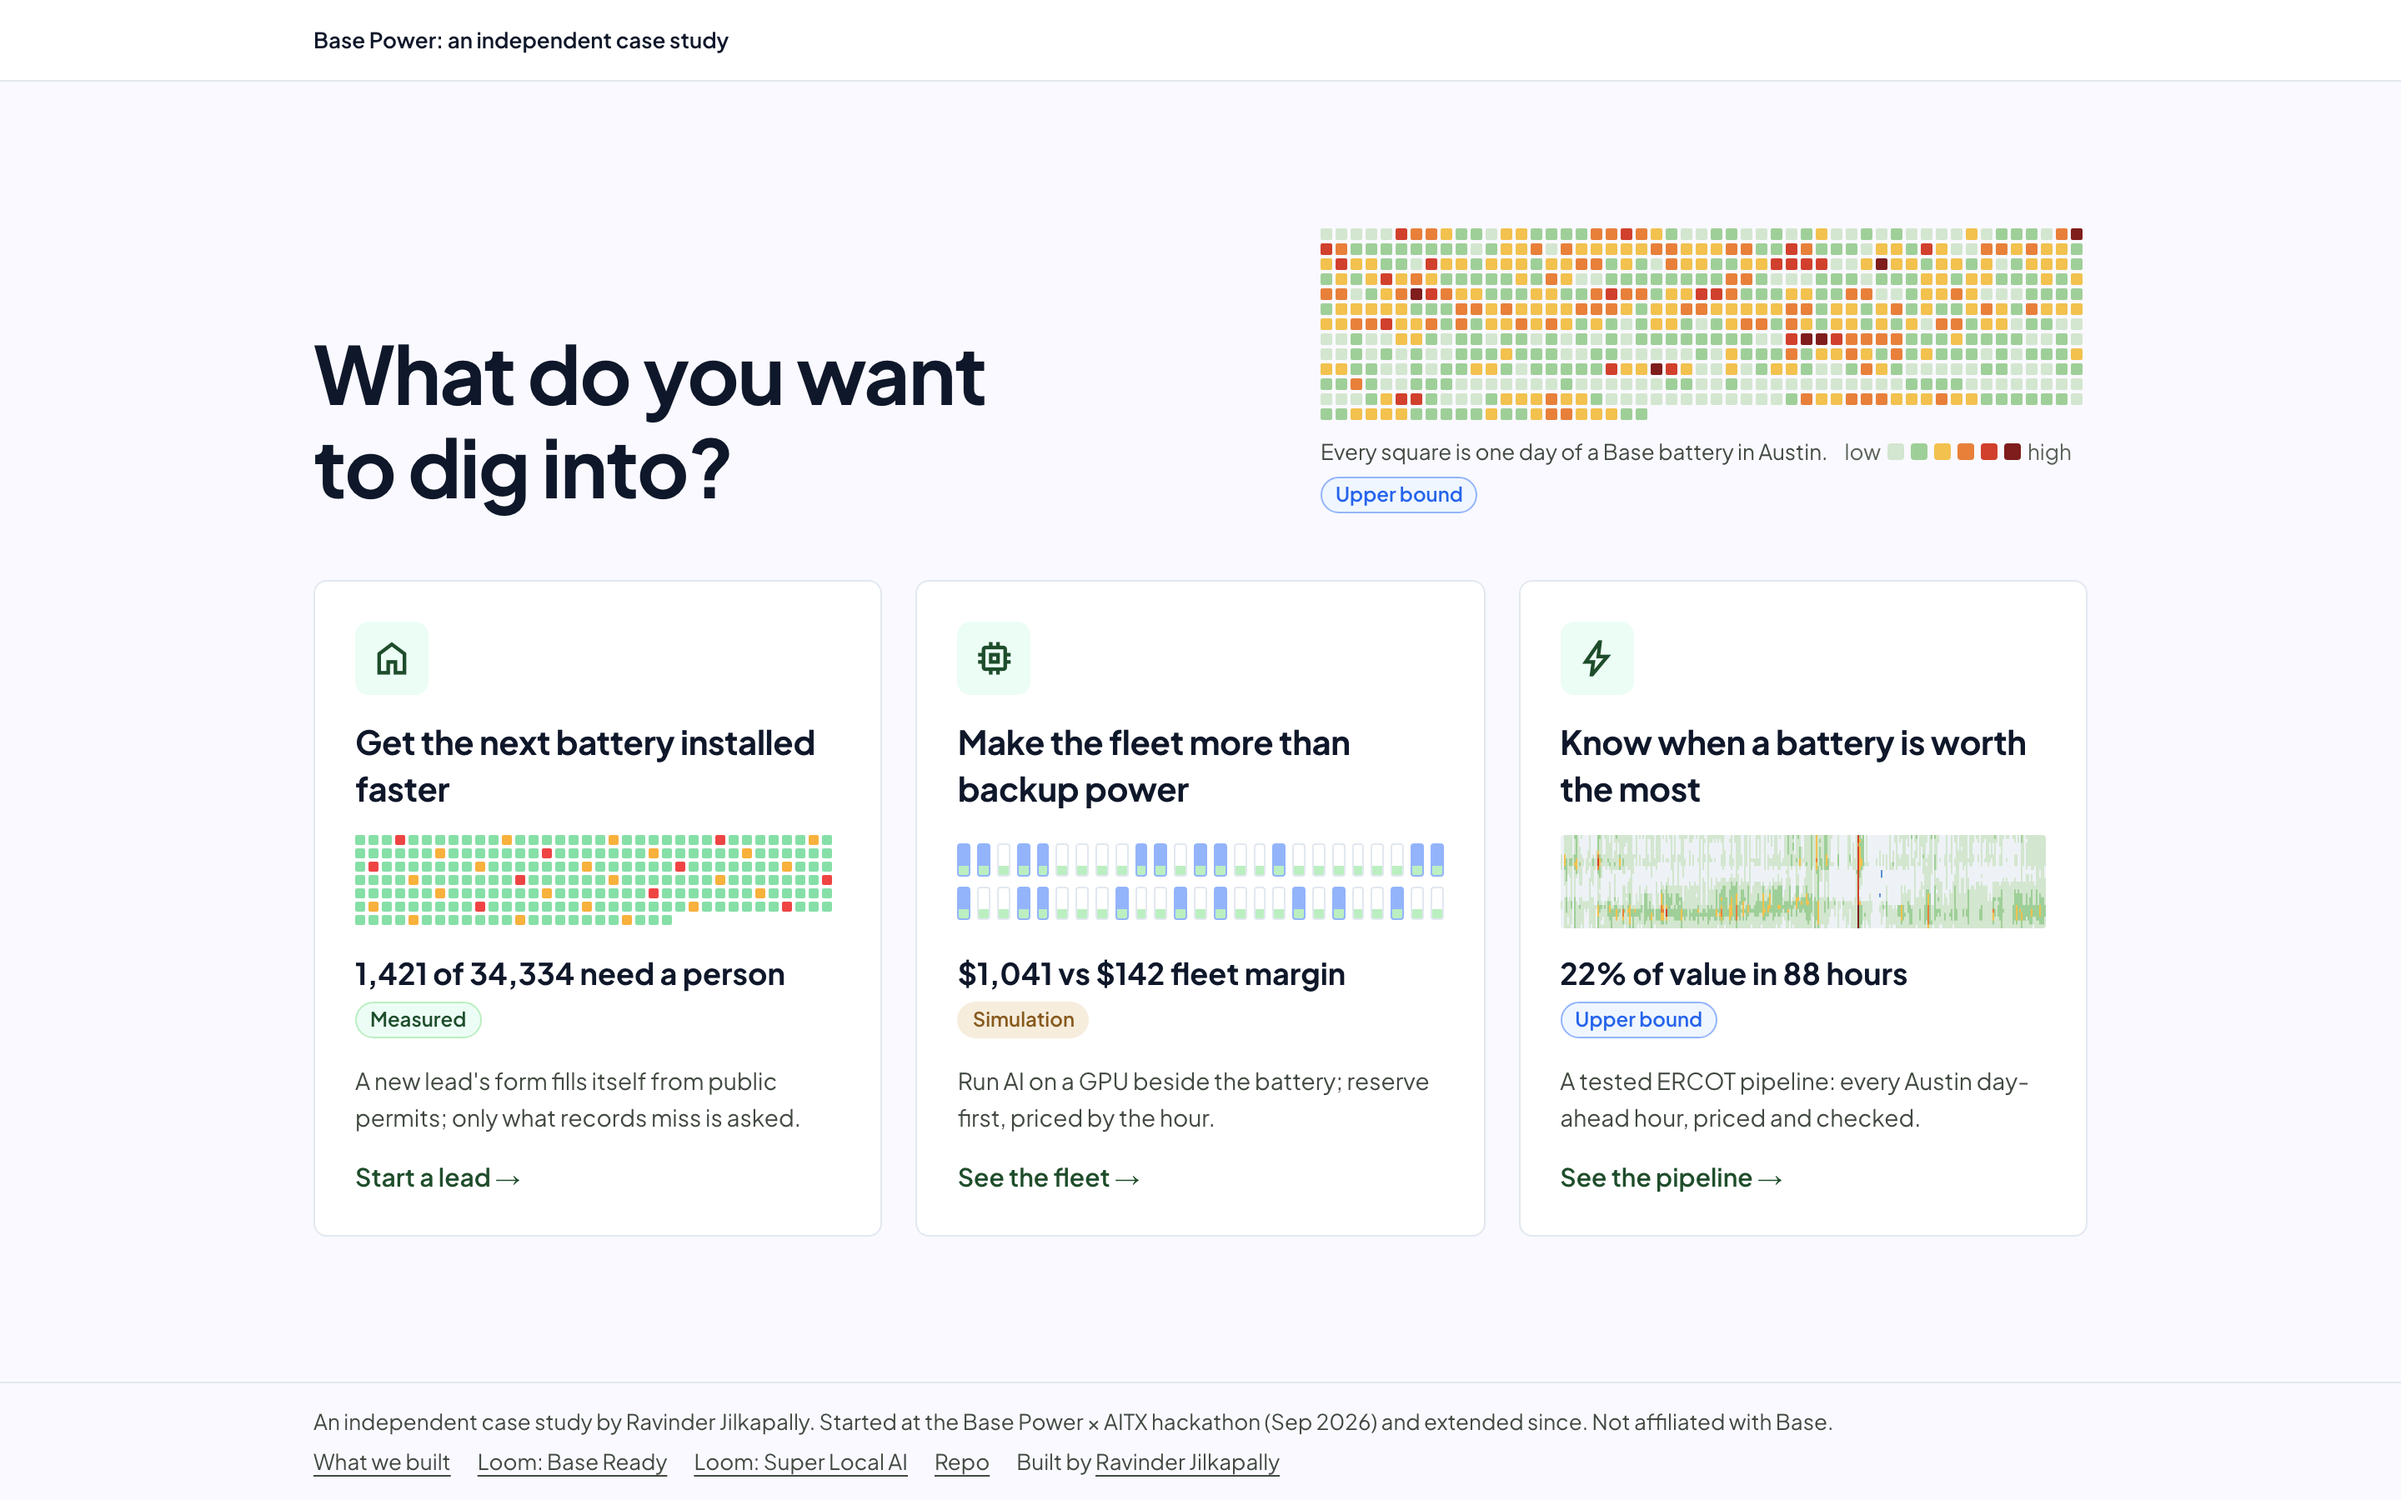
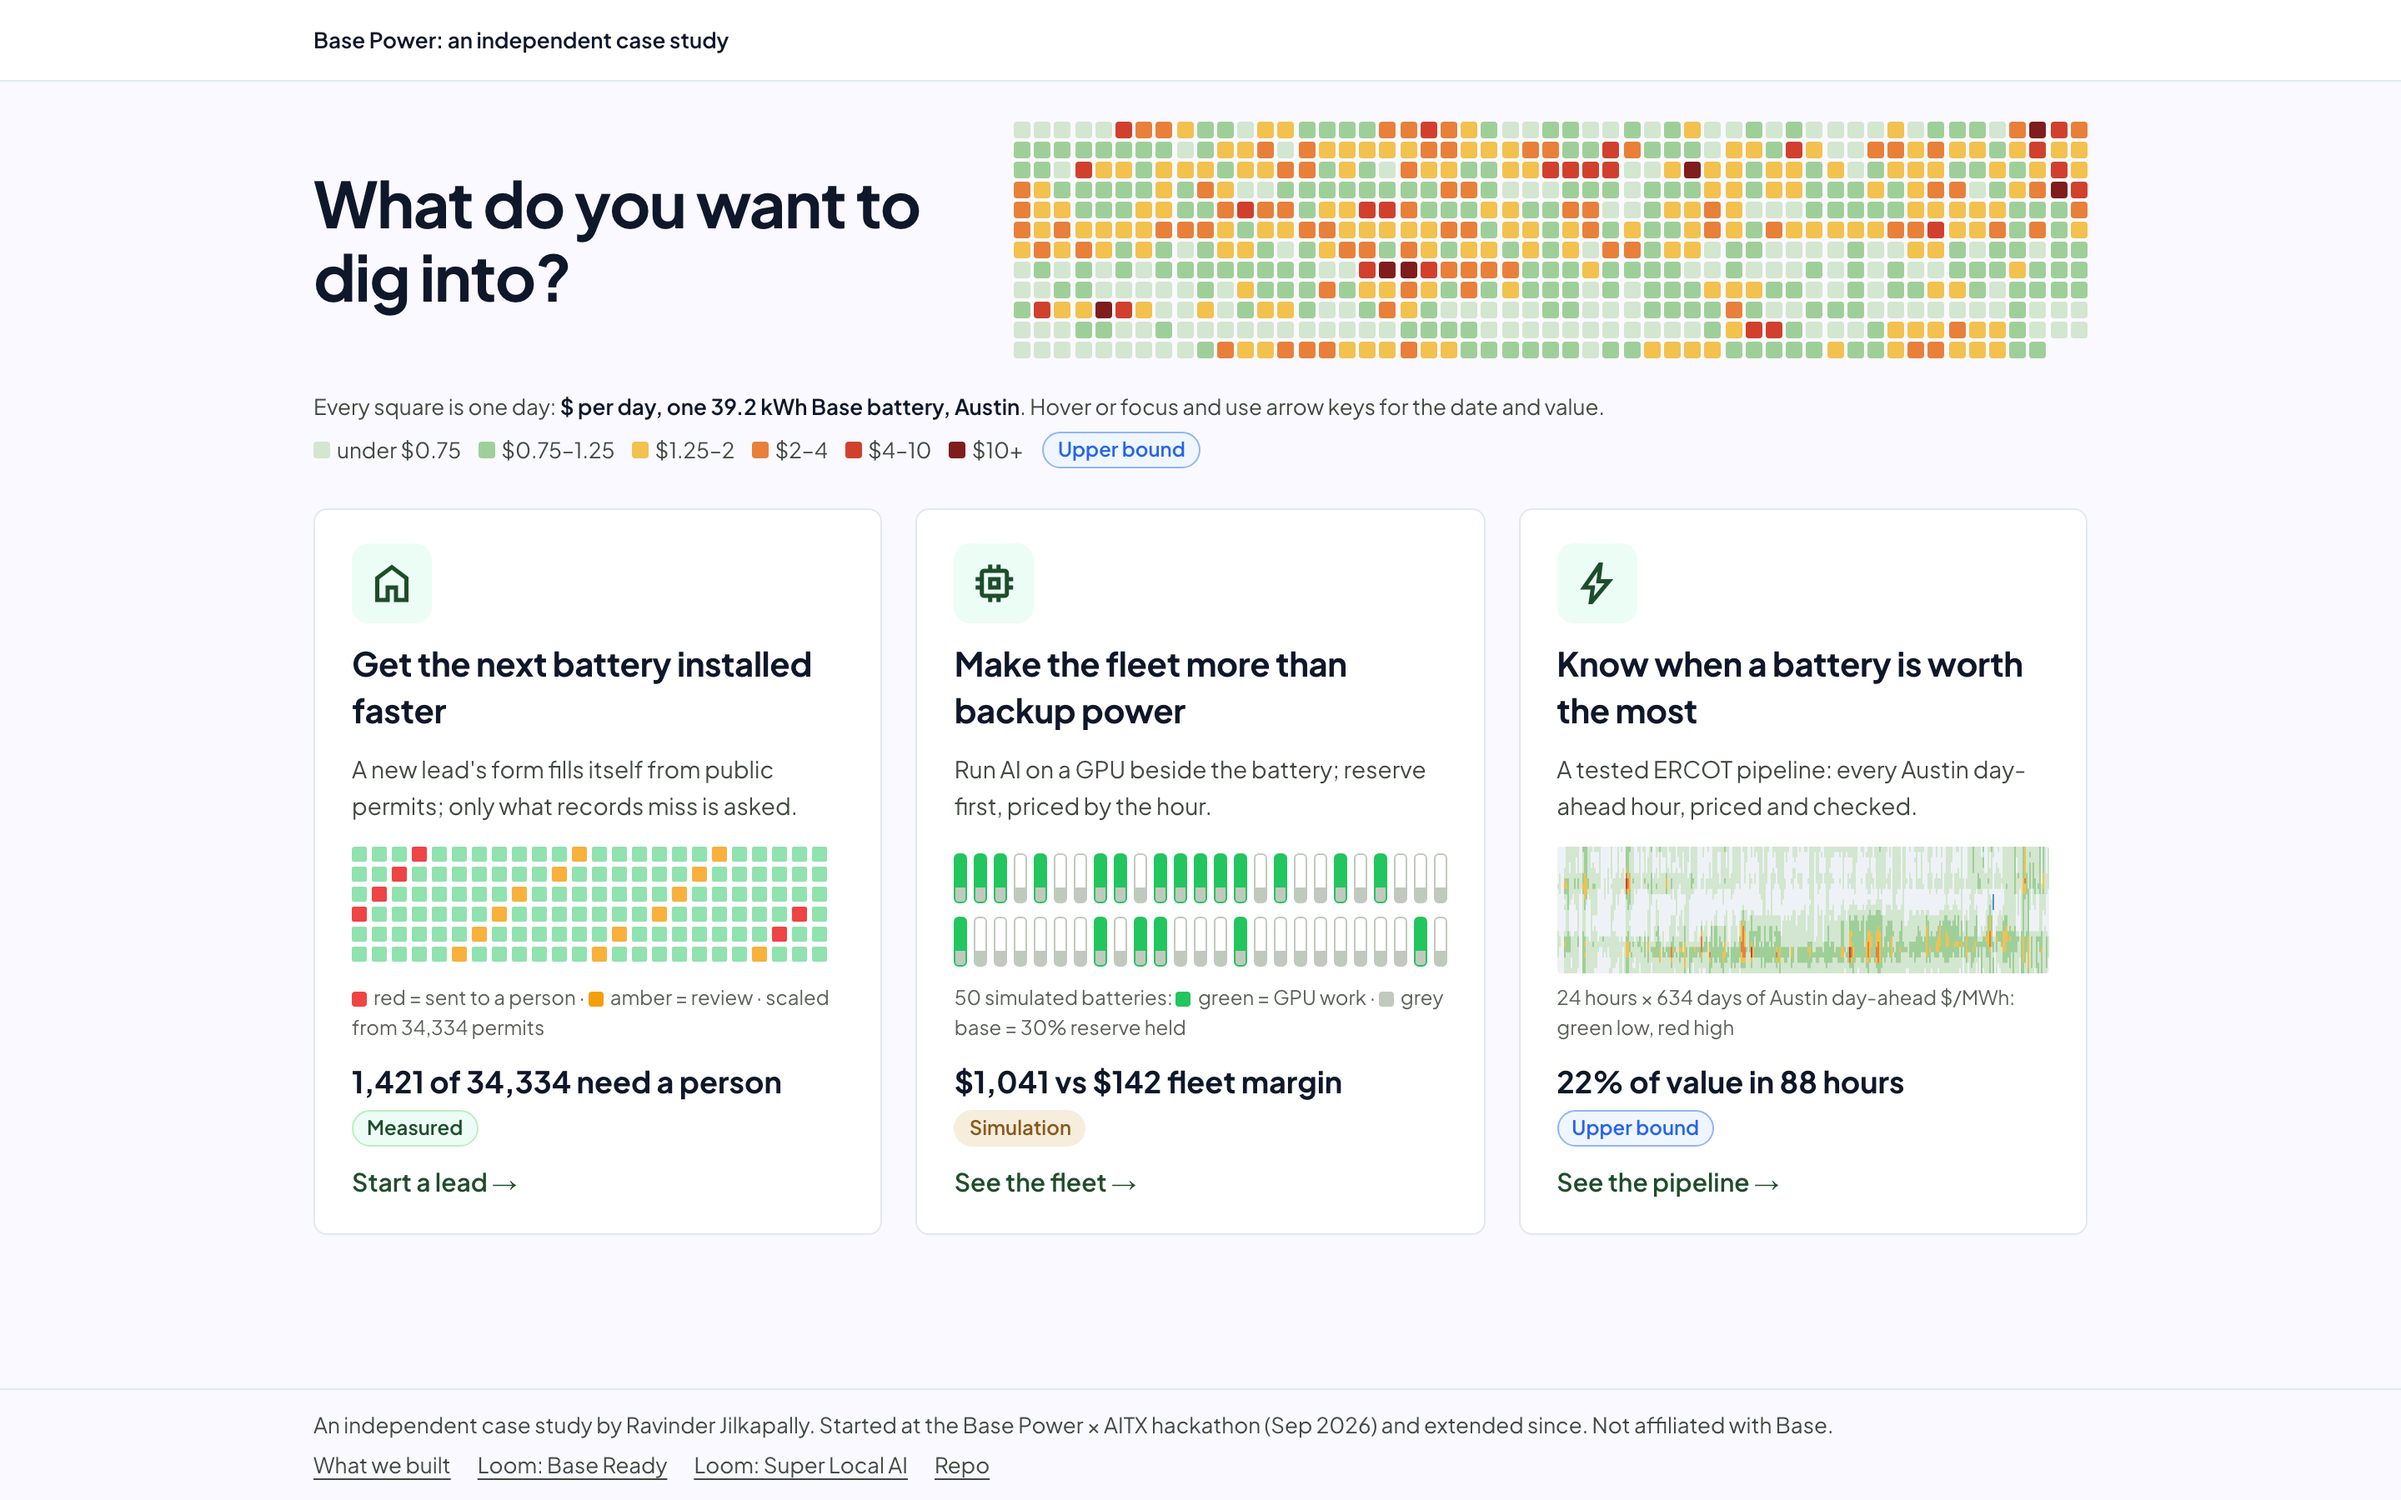
landing: no green panel; grid drawn at once (no fill-in animation) (#21)
Claude-Session: https://claude.ai/code/session_01MhZ4defSvUL2RRn7pbkeyv

diff --git a/web/start.js b/web/start.js
@@ -47,19 +47,7 @@
       e.preventDefault();
       show(Math.min(cells.length - 1, Math.max(0, (sel < 0 ? 0 : sel) + step)));
     });
-    if (reduce) cells.forEach((c, i) => c.style.background = fin[i]);
-    else {
-      const t0 = performance.now(), DUR = 2400, WAVE = 24;
-      const tick = now => {
-        const done = Math.round(Math.min(1, (now - t0) / DUR) * cells.length);
-        for (let i = 0; i < cells.length; i++) {
-          const want = i < done - WAVE ? fin[i] : i < done ? 'var(--bf-line-strong)' : '';
-          if (cells[i].style.background !== want) cells[i].style.background = want;
-        }
-        if (done < cells.length) requestAnimationFrame(tick); else cells.forEach((c, i) => c.style.background = fin[i]);
-      };
-      requestAnimationFrame(tick);
-    }
+    cells.forEach((c, i) => c.style.background = fin[i]);
     // ERCOT card: hour x day heatmap of Austin day-ahead $/MWh, drawn 1.8x wider than the card so hover can pan it.
     const G = D.heatmap.LZ_AEN, strip = $('viz-strip'), n = G.length, H = strip.clientHeight || 76;
     const vw = Math.max(200, strip.clientWidth), W = Math.round(vw * 1.8), dpr = devicePixelRatio || 1;

diff --git a/web/start.html b/web/start.html
@@ -22,7 +22,7 @@
   main { flex: 1; padding: 24px 0 28px; }
   /* Hero: H1 panel beside the 634-day band (no overlap), legend with units below. */
   .band { margin: 0; display: grid; grid-template-columns: 400px minmax(0, 1fr); gap: 20px; align-items: stretch; }
-  .hero-panel { background: var(--bf-brand); color: var(--bf-on-brand); border-radius: var(--bf-radius-lg); padding: 24px 28px; display: flex; align-items: center; }
+  .hero-panel { color: var(--bf-ink); display: flex; align-items: center; }
   h1 { font: 700 38px/44px var(--bf-font); letter-spacing: -0.02em; margin: 0; }
   .days { position: relative; min-width: 0; }
   .days-sq { display: grid; grid-template-columns: repeat(auto-fill, 10px); gap: 2px; justify-content: space-between; border-radius: 2px; }
@@ -79,7 +79,6 @@
     .wrap { padding: 0 16px; }
     main { padding: 16px 0 24px; }
     h1 { font-size: 32px; line-height: 38px; }
-    .hero-panel { padding: 20px; }
     h1 { font-size: 32px; line-height: 38px; }
     .days-sq { grid-template-columns: repeat(auto-fill, 8px); }
     .days-sq i { width: 8px; height: 8px; }
